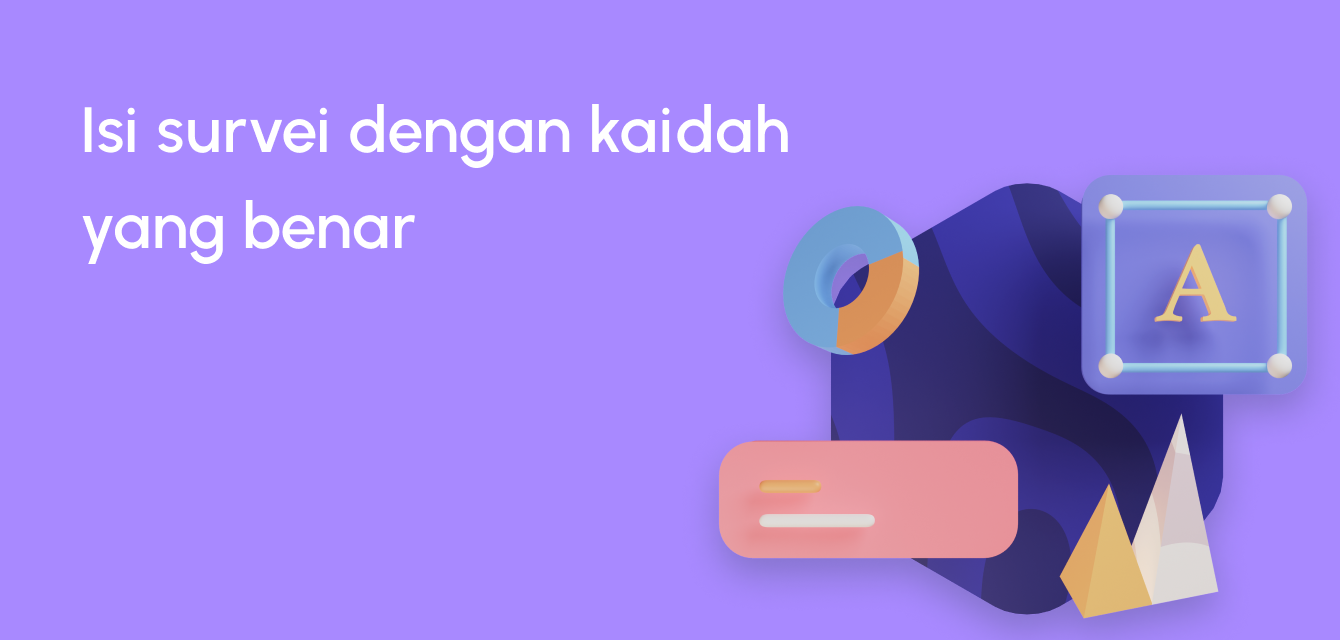
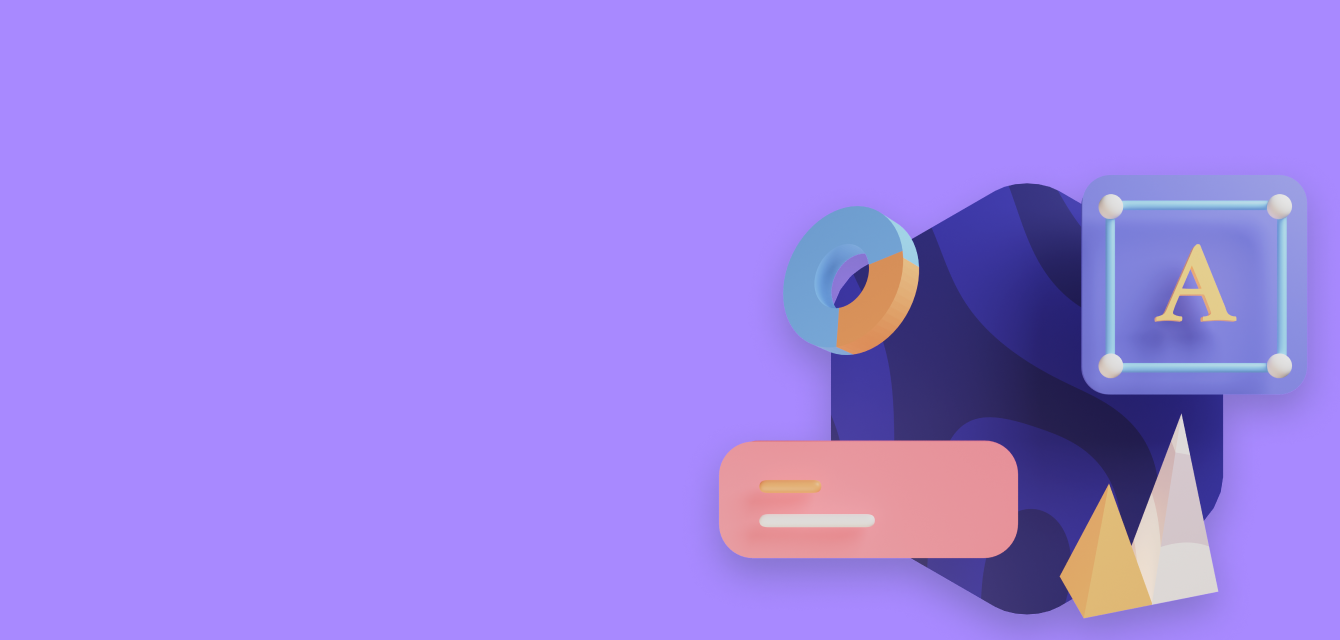
edit guide card, create survey category and survey for u sections

Changed region(s): [[0.0612, 0.1562, 0.6119, 0.2812], [0.0612, 0.3125, 0.306, 0.4062]]

diff --git a/app/screens/Home.js b/app/screens/Home.js
@@ -1,17 +1,41 @@
 import React from 'react';
 import surveitLogo from '../assets/surveit-home.png';
 import guideBG from '../assets/guide-bg.png';
+import educationCategory from '../assets/education-category.png';
+import lifestyleCategory from '../assets/lifestyle-category.png';
+import businessCategory from '../assets/business-category.png';
+import otherCategory from '../assets/other-category.png';
+import cheveronRight from '../assets/cheveron-right.png';
 import {
 	StyleSheet,
 	Button,
-	TextInput,
 	View,
 	Image,
 	Text,
 	ImageBackground,
+	TouchableOpacity,
 } from 'react-native';
 
 const Home = ({ navigation }) => {
+	const category = [
+		{
+			name: 'Pendidikan',
+			img: educationCategory,
+		},
+		{
+			name: 'Gaya Hidup',
+			img: lifestyleCategory,
+		},
+		{
+			name: 'Bisnis',
+			img: businessCategory,
+		},
+		{
+			name: 'Lainnya',
+			img: otherCategory,
+		},
+	];
+
 	return (
 		<View style={{ alignItems: 'center' }}>
 			<Image style={styles.image} source={surveitLogo} />
@@ -21,24 +45,93 @@ const Home = ({ navigation }) => {
 					borderRadius: 20,
 					overflow: 'hidden',
 					marginTop: 20,
+					width: 320,
+					height: 160,
 				}}
 			>
 				<ImageBackground style={styles.cardImage} source={guideBG}>
+					<View style={styles.guideText}>
+						<Text style={styles.h3}>Isi survei dengan kaidah</Text>
+						<Text style={styles.h3}>yang benar</Text>
+					</View>
 					<View style={styles.seeGuideButton}>
 						<Button color="#6E61E8" title="Lihat panduan" />
 					</View>
 				</ImageBackground>
+			</View>
+			<View style={{ width: 320, marginTop: 20 }}>
+				<Text style={styles.h2}>Kategori survei</Text>
+				<View
+					style={{
+						marginTop: 16,
+						display: 'flex',
+						flexDirection: 'row',
+						justifyContent: 'space-between',
+					}}
+				>
+					{category.map((category, index) => {
+						return (
+							<TouchableOpacity
+								style={{
+									width: 74,
+									height: 80,
+									paddingTop: 8,
+									paddingBottom: 8,
+									alignItems: 'center',
+								}}
+								key={index}
+							>
+								<Image style={styles.categoryImage} source={category.img} />
+								<Text style={styles.p2}>{category.name}</Text>
+							</TouchableOpacity>
+						);
+					})}
+				</View>
+			</View>
+			<View
+				style={{
+					width: 320,
+					marginTop: 20,
+					display: 'flex',
+					flexDirection: 'row',
+				}}
+			>
+				<Text style={styles.h2}>Survei untukmu</Text>
+				<View style={{ position: 'absolute', right: 0 }}>
+					<TouchableOpacity style={styles.seeAllButton}>
+						<Text style={styles.button2}>Lihat semua</Text>
+						<Image style={{ width: 12, height: 12 }} source={cheveronRight} />
+					</TouchableOpacity>
+				</View>
 			</View>
 		</View>
 	);
 };
 
 const styles = StyleSheet.create({
-	h1: {
-		fontSize: 24,
-		lineHeight: 28,
-		marginTop: 54,
-		marginBottom: 36,
+	h2: {
+		fontSize: 20,
+		lineHeight: 24,
+		color: '#475569',
+		fontWeight: '600',
+	},
+	h3: {
+		fontSize: 16,
+		lineHeight: 20,
+		fontWeight: '600',
+		color: '#ffffff',
+	},
+	p2: {
+		fontSize: 12,
+		lineHeight: 24,
+		fontWeight: '500',
+		color: '#475569',
+	},
+	button2: {
+		fontSize: 12,
+		lineHeight: 24,
+		fontWeight: '600',
+		color: '#6E61E8',
 	},
 	image: {
 		marginTop: 44,
@@ -46,6 +139,11 @@ const styles = StyleSheet.create({
 		width: 89,
 		height: 32,
 		resizeMode: 'contain',
+	},
+	guideText: {
+		position: 'absolute',
+		top: 30,
+		left: 20,
 	},
 	seeGuideButton: {
 		width: 140,
@@ -57,9 +155,25 @@ const styles = StyleSheet.create({
 		backgroundColor: '#ffffff',
 	},
 	cardImage: {
-		width: 335,
-		height: 148,
+		width: 320,
+		height: 160,
+		resizeMode: 'cover',
+		justifyContent: 'center',
+	},
+	categoryImage: {
+		width: 40,
+		height: 40,
 		resizeMode: 'contain',
+	},
+	seeAllButton: {
+		width: 108,
+		height: 32,
+		backgroundColor: '#6E61E81A',
+		borderRadius: 20,
+		alignItems: 'center',
+		justifyContent: 'center',
+		display: 'flex',
+		flexDirection: 'row',
 	},
 });
 
